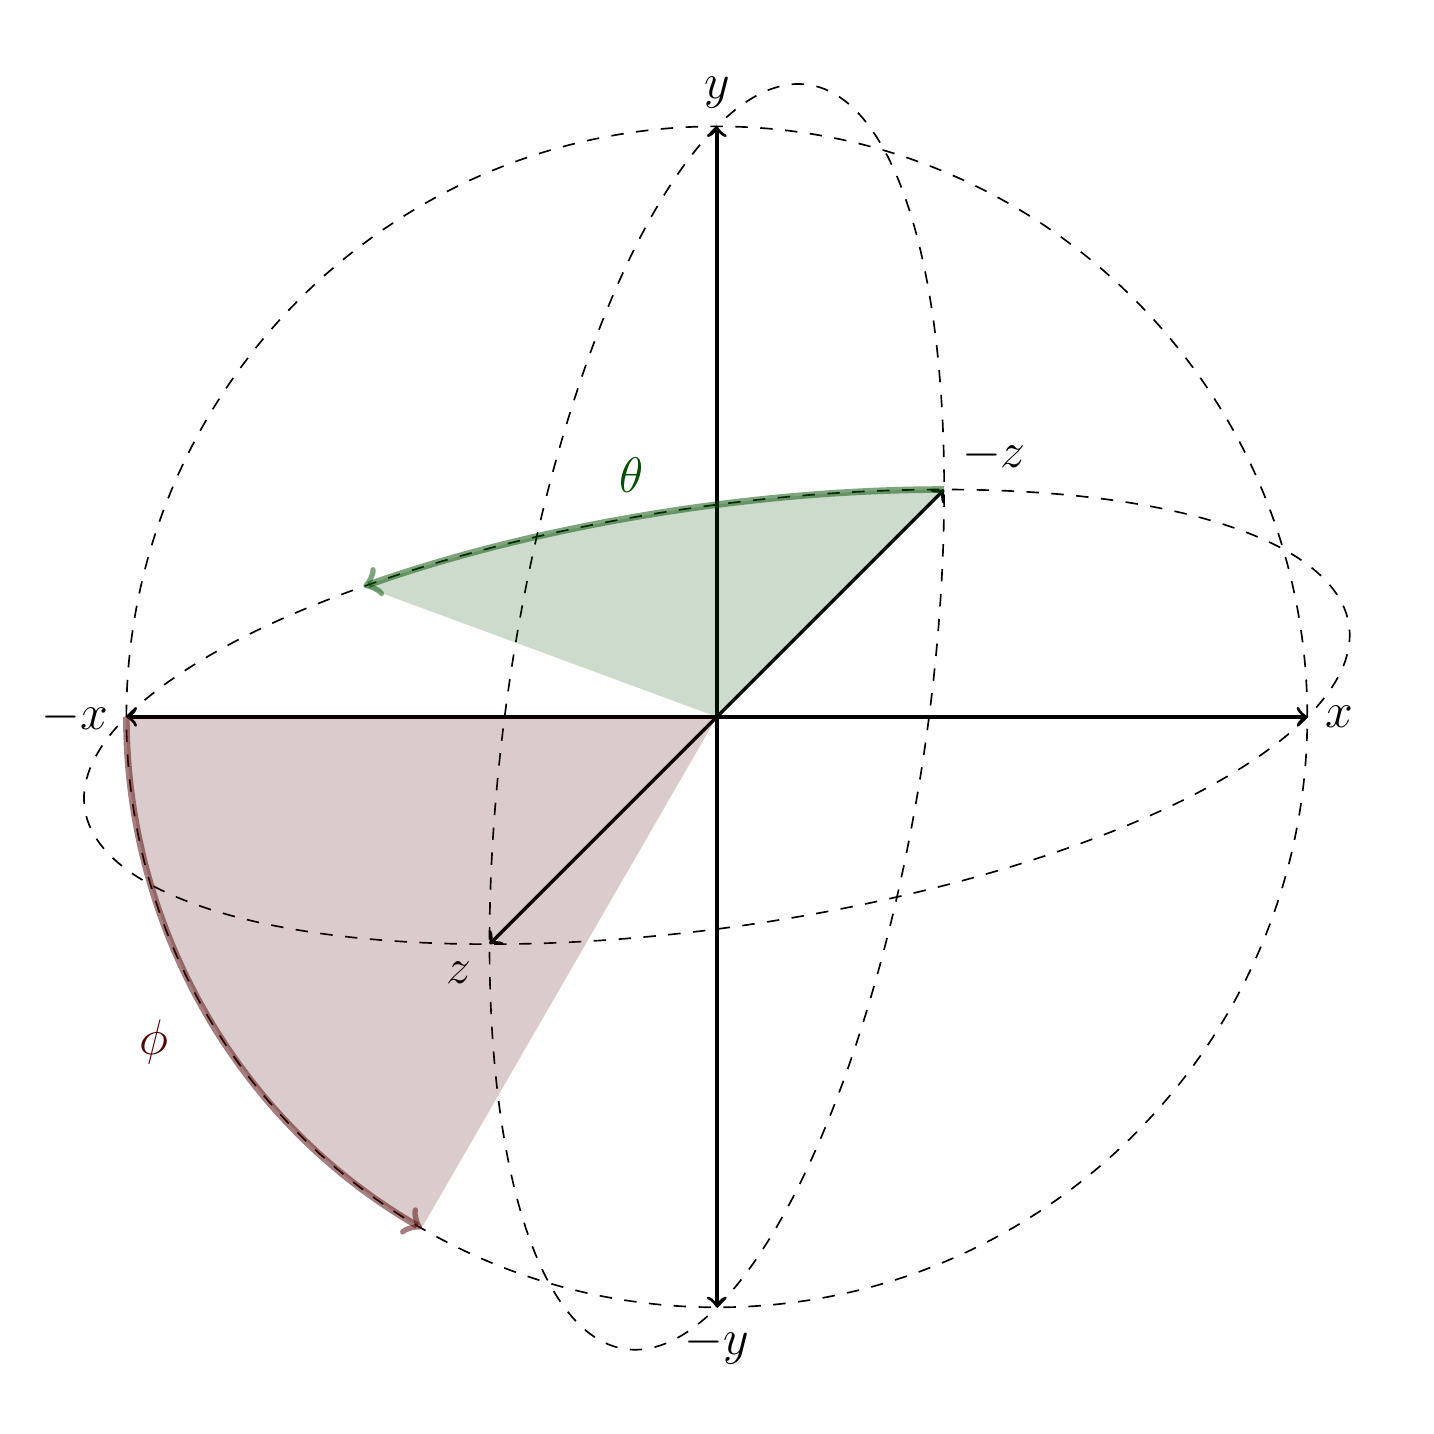
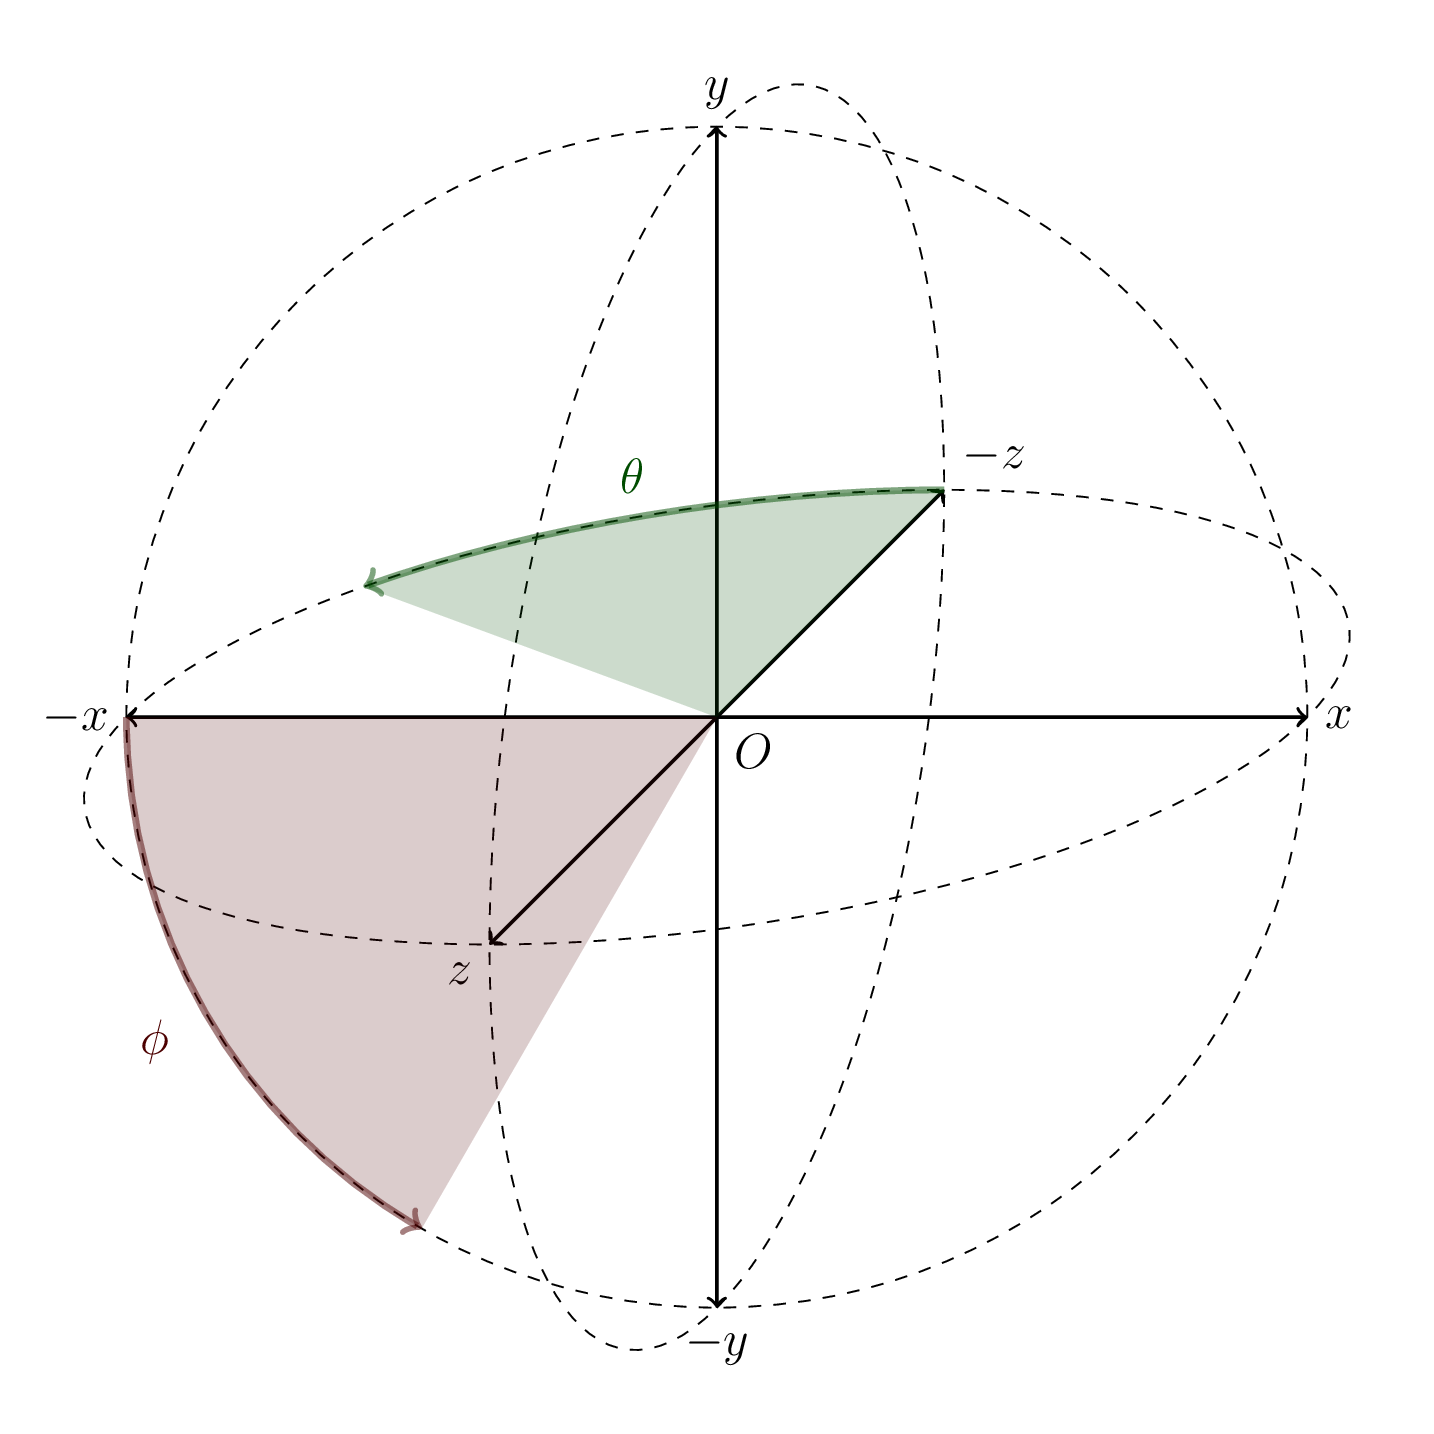
improve figure about thetaphi, fix doc

diff --git a/docs/source/figures/src/thetaphi.tex b/docs/source/figures/src/thetaphi.tex
@@ -11,6 +11,7 @@
 \begin{document}
 	\begin{tikzpicture}[scale=5]
 		\coordinate (O) at (0, 0, 0);
+		\node[below right] at (O) {$O$};
 
 		\begin{scope}[thick,->]
 			\draw (O) -- (xyz spherical cs:radius=1,longitude=90) node[anchor=west]       {$x$};

diff --git a/docs/source/user_guide_2_2_sources.md b/docs/source/user_guide_2_2_sources.md
@@ -79,11 +79,9 @@ source.direction.phi = [0, 90 * deg]
 ```
 
 Geant4 defines the direction as:
-$$
-P_x = -sin\theta cos\theta\\
-P_y = -sin\theta sin\theta\\
-P_z = -cos\theta
-$$
+- x = -sin𝜃 cos𝜙;
+- y = -sin𝜃 sin𝜙;
+- z = -cos𝜃.
 
 So 𝜃 is the angle in XOZ plane, from -Z to -X; and 𝜙 is the angle in XOY plane from -X to -Y.
 
